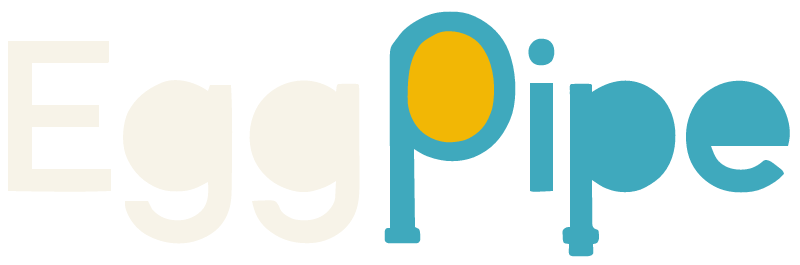
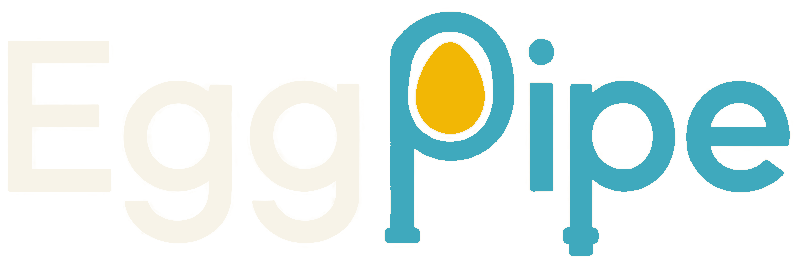
brand: use higher-fidelity wordmark PNGs
- rebuild wordmark and lockup PNGs from the original raster
- keep the traced SVG as a draft master
- refresh the social preview

diff --git a/engineering/brand-assets.md b/engineering/brand-assets.md
@@ -75,10 +75,15 @@ PNG-экспорты:
 - `lockup/eggpipe-wordmark-light.png`, `lockup/eggpipe-wordmark-dark.png`;
 - `lockup/eggpipe-lockup-light.png`, `lockup/eggpipe-lockup-dark.png`.
 
+PNG для README и docs собраны из исходного растрового wordmark: так сохраняется
+тоньше штрих. SVG-версии — черновой автотрейс, они тяжелее и пока не используются
+для экспорта.
+
 ## Ограничения
 
-- SVG иконки и wordmark получены автотрассировкой исходных PNG. Перед публичным
-  релизом желательно перерисовать кривые вручную в Figma/Inkscape.
+- SVG иконки и wordmark получены автотрассировкой исходных PNG. Wordmark SVG
+  тяжелее оригинала; PNG-экспорты собраны из растрового источника.
+  Перед публичным релизом кривые желательно перерисовать вручную в Figma/Inkscape.
 - `social/eggpipe-social-1280x640.png` собран из векторного lockup; tagline в нём
   пока растровый.
 - `apple-touch-icon.png` — единственный PNG с фоном, так требует iOS.
